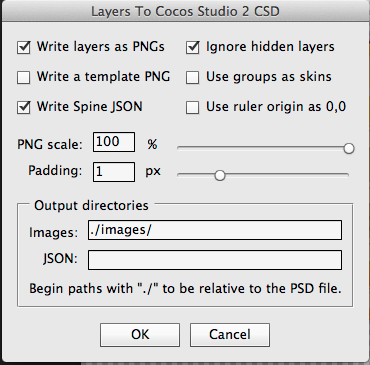
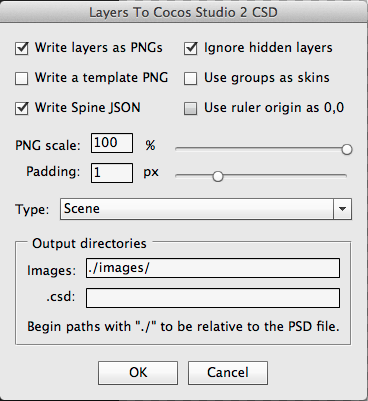
增加 .csb 类型选择

diff --git a/LayersToCSD.jsx b/LayersToCSD.jsx
@@ -13,6 +13,7 @@ var useRulerOrigin = false;
 var imagesDir = "./images/";
 var projectDir = "";
 var padding = 1;
+var typeText = "Scene";
 
 // IDs for saving settings.
 const settingsID = stringIDToTypeID("settings");
@@ -132,11 +133,11 @@ function run () {
 
 	// Output skeleton and bones.
 	var json = '<GameProjectFile>\n';
-	json += '\t<PropertyGroup Type="Scene" Name="' + docName + '" ID="' + guid() + '" Version="2.1.5.0" />\n';
+	json += '\t<PropertyGroup Type="' + typeText + '" Name="' + docName + '" ID="' + guid() + '" Version="2.1.5.0" />\n';
 	json += '\t<Content ctype="GameProjectContent">\n';
 	json += '\t\t<Content>\n';
 	json += '\t\t<Animation Duration="0" Speed="1.0000" />\n';
-	json += '\t\t<ObjectData Name="Scene" FrameEvent="" Tag="' + tagIndex + '" ctype="SingleNodeObjectData">\n';
+	json += '\t\t<ObjectData Name="' + typeText + '" FrameEvent="" Tag="' + tagIndex + '" ctype="SingleNodeObjectData">\n';
 	tagIndex += 1;
 	json += '\t\t\t<Position X="0.0000" Y="0.0000" />\n';
 	json += '\t\t\t<Scale ScaleX="1.0000" ScaleY="1.0000" />\n';
@@ -336,6 +337,30 @@ function showDialog () {
 	paddingText.onChanging = function () { paddingSlider.value = paddingText.text; };
 	paddingSlider.onChanging = function () { paddingText.text = Math.round(paddingSlider.value); };
 
+	var stringOptions = [];
+	stringOptions[0] = "Scene";
+	stringOptions[1] = "Layer";
+	stringOptions[2] = "Node";
+
+	var selGroup = dialog.add("group");
+			group = selGroup.add("group");
+			group.orientation = "column";
+			group.alignChildren = "right";
+			group.add("statictext", undefined, "Type:");
+
+			group = selGroup.add("group");
+			group.alignment = ["fill", ""];
+			group.orientation = "column";
+			group.alignChildren = ["fill", ""];
+			var typeSel = group.add('dropdownlist', undefined, 'Test');
+
+			var item
+			for (var i=0,len=stringOptions.length;i<len;i++){
+				item = typeSel.add ('item', "" + stringOptions[i]);     
+			};
+			typeSel.onChange = function() {typeText = stringOptions[parseInt(this.selection)];};
+			typeSel.selection = typeSel.items[0];
+
 	var outputGroup = dialog.add("panel", undefined, "Output directories");
 		outputGroup.alignChildren = "fill";
 		outputGroup.margins = [10,15,10,10];
@@ -344,7 +369,7 @@ function showDialog () {
 				group.orientation = "column";
 				group.alignChildren = "right";
 				group.add("statictext", undefined, "Images:");
-				group.add("statictext", undefined, "JSON:");
+				group.add("statictext", undefined, ".csd:");
 			group = textGroup.add("group");
 				group.orientation = "column";
 				group.alignChildren = "fill";

diff --git a/README.md b/README.md
@@ -1,12 +1,12 @@
-# 用Photoshop自动创建CocosStudio场景.csd文件
+# 用Photoshop自动创建CocosStudio .csd文件（Scene/Layer/Node）
 
 > 如觉得看文字累，可以先看下[视频演示（点击观看）](http://v.youku.com/v_show/id_XOTE0NzE2NDg0.html)，了解工具带来的轻松和方便。
 
-工欲善其事必先利其器，趁手的工具会让生活美好许多，虽然Cocos2d-x，提供了Cocos Studio 2界面编辑器，但是在美术设计好界面后，要在Cocos Studio 2界面编辑器呈现出来，确是个工作量比较大的体力活，首先美术要把界面元素切成小图，然后界面编辑器使用人员，根据效果图把美术提供的小图在编辑器中拼接出来，这几步操作非但没有技术含量，又特别费工时，于是就有了‘PhotoshopLayerToCocosStudioCSD’这个工具，让美术和界面编辑器使用人员，可以节省大量时间去上上网，聊聊天。
+工欲善其事必先利其器，趁手的工具会让生活美好许多，虽然Cocos2d-x，提供了Cocos Studio 2编辑器，但是在美术设计美术部分好后，要在Cocos Studio 2编辑器呈现出来，确是个工作量比较大的体力活，首先美术要把美术元素切成小图，然后编辑器使用人员，根据效果图把美术提供的小图在编辑器中拼接出来，这几步操作非但没有技术含量，又特别费工时，于是就有了‘PhotoshopLayerToCocosStudioCSD’这个工具，让美术和编辑器使用人员，可以节省大量时间去上上网，聊聊天。
 
 #工具介绍
 
-用Photoshop自动创建CocosStudio界面场景的工具，是：[LayersToCSD.jsx（点击下载）](https://github.com/sunjianhua/PhotoshopLayerToCocosStudioCSD/releases/download/1.0/LayersToCSD.jsx)，这是一个photoshop脚本文件，安装和使用非常方便，这个photoshop脚本，改编自[Spine](https://www.esotericsoftware.com)的LayersToPNG.jsx脚本，只是修改了里面的文件输出部分，所以会看到操作界面是一样的。
+用Photoshop自动创建CocosStudio场景（Scene/Layer/Node）的工具，是：[LayersToCSD.jsx（点击下载）](https://github.com/sunjianhua/PhotoshopLayerToCocosStudioCSD/releases/download/1.0/LayersToCSD.jsx)，这是一个photoshop脚本文件，安装和使用非常方便，这个photoshop脚本，改编自[Spine](https://www.esotericsoftware.com)的LayersToPNG.jsx脚本，只是修改了里面的文件输出部分和增加了一个.csb类型选择，所以会看到操作界面基本是相同的。
 
 这个工具的调试用的是：Adobe Photoshop CS6，其它版本没测试过。
 
@@ -22,14 +22,16 @@ photoshop的‘Scripts’目录详细路径：photoshop安装盘\photoshop文件
 
 1. 在photoshop中，打开要输出的文件，选择photoshop的‘文件’菜单，再选择‘脚本’子菜单就可以看到‘LayersToCSD’这个子菜单，点击，弹出操作窗口，如果没什么修改，直接点‘ok'按钮。</br>![image](README/show1.png)
 
-2. 把上一步生成的.csd文件和images文件，拖拽到Cocos Studio 2界面编辑器已打开的工程。</br>![image](README/show2.png)
+2. 把上一步生成的.csd文件和images文件，拖拽到Cocos Studio 2编辑器已打开的工程。</br>![image](README/show2.png)
 
 经过上面两步操作，又可以继续刷微信，看淘宝了。
 
 #附加信息
-1. photoshop画布大小要和Cocos Studio 2场景编辑器中的画布大小相同？？？不然会出现拉伸变形？？？这个没实际测试。
+1. 默认输出的.csb类型为Scene，在弹出窗口的Type下拉框，可以选择：Scene/Layer/Node，分别对应.csb的Scene/Layer/Node。
 
-2. 因为要在photoshop中，把每个层转换为图片存储到磁盘，这个操作会慢一些，在开始执行后，稍等一下，会看到在photoshop中出现一些额外的操作窗口，等这些额外的操作窗口，自动执行完全部操作，并自动关闭，转换就全部结束了，如果都是按默认操作执行，可以到.psd文件存放目录，看到新增加了一个.csd文件和一个images文件夹（这个操作都是自动操作，不用干预）。
+2. photoshop画布大小要和Cocos Studio 2场景编辑器中的画布大小相同？？？不然会出现拉伸变形？？？这个没实际测试。
+
+3. 因为要在photoshop中，把每个层转换为图片存储到磁盘，这个操作会慢一些，在开始执行后，稍等一下，会看到在photoshop中出现一些额外的操作窗口，等这些额外的操作窗口，自动执行完全部操作，并自动关闭，转换就全部结束了，如果都是按默认操作执行，可以到.psd文件存放目录，看到新增加了一个.csd文件和一个images文件夹（这个操作都是自动操作，不用干预）。
 
 3. 用这个工具生成的.csd文件，‘NodeObjectData’都为’SpriteObjectData‘，如果能在Cocos Studio 2中可视化修改对象类型就方便多了。
 
@@ -41,7 +43,7 @@ photoshop的‘Scripts’目录详细路径：photoshop安装盘\photoshop文件
 
 7. 这个工具不支持中文，因为Spine的LayersToPNG.jsx脚本就不支持，哈哈。
 
-8. 这个工具根据.psd的文件名，生成.csd的文件名。
+8. 如果没有在弹出窗口设置.csb文件名，这个工具根据.psd的文件名，生成.csd的文件名。
 
 9. 这个工具根据photoshop中Layer的名字，来生成图片的名字，所以这个要策划先把命名规则给美术沟通好，游戏用图的命名规则，就是photoshop中Layer的命名规则，因为不支持中文，所以如果photoshop中Layer名为中文，那么最终输出的图片名为乱码？？？
 
